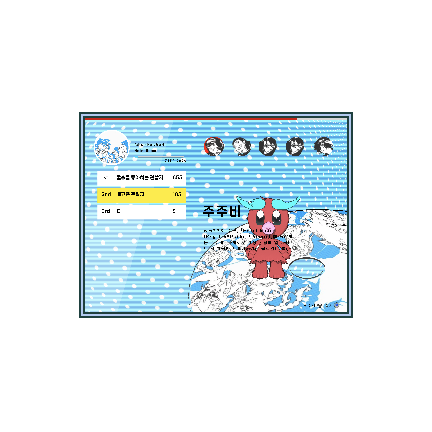
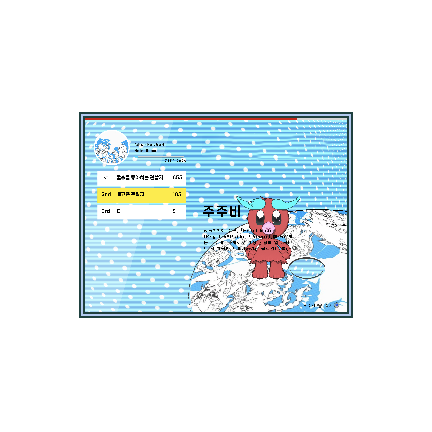
upg1

Changed region(s): [[0.4514, 0.3009, 0.7824, 0.3912]]

diff --git a/index.html b/index.html
@@ -4,13 +4,98 @@
         <meta charset="UTF-8">
         <meta name="apple-mobile-web-app-capable" content="yes">
         <meta name="apple-mobile-web-app-status-bar-style" content="black-translucent">
-        <meta name="viewport" content="user-scalable=no">
+        <meta name="viewport" content="width=device-width, initial-scale=1.0">
         <link rel="icon" href="icon/icon.png" type="image/png">
         <link rel="apple-touch-icon" href="icon/icon.png">
-        <link rel="stylesheet" type="text/css" href="css/game.css">
+        <link rel="stylesheet" type="text/css" href="./css/game.css">
+        <link rel="stylesheet" type="text/css" href="./fonts/gamefont.css">
         <title>Shunji Heights</title>
+        <style>
+
+
+
+/*
+body, html {
+    width: 320px;
+    height: 320px;
+    margin: 0;
+    padding: 0;
+    background-color: #ffffff;
+    overflow: hidden;
+    position: fixed;
+    transform: translate(-50%, -50%);
+    top: 50%;
+    left: 50%;
+} */
+
+body, html {
+    width: 100%;
+    height: 100%;
+    margin: 0;
+    padding: 0;
+    background-image: url('background.png');
+    background-size: 10%;
+    background-repeat: repeat;
+    background-position: center center;
+    overflow: hidden;
+    position: fixed;
+    top: 0;
+    left: 0;
+}
+
+
+            /* 로고 스타일 */
+            .logo {
+                position: fixed;
+                left: 50%;
+                transform: translateX(-50%);
+                opacity: 0.5; /* 불투명도 50% */
+                z-index: 1000; /* 다른 요소 위에 표시 */
+                max-width: 200px; /* 로고의 최대 너비 설정 */
+                height: auto; /* 자동 높이 조절 */
+            }
+
+            .top-logo {
+                top: 20px; /* 화면 상단에서 20px 떨어진 위치 */
+            }
+
+            .bottom-logo {
+                bottom: 20px; /* 화면 하단에서 20px 떨어진 위치 */
+            }
+
+            /* 반응형 디자인을 위한 추가 조정 (선택 사항) */
+            @media (max-width: 768px) {
+                .logo {
+                    max-width: 125px; /* 작은 화면에서 로고 크기 축소 */
+                }
+            }
+
+#gameCanvas {
+    image-rendering: auto !important;
+
+    /* 기본 데스크탑 설정 */
+    /*transform: scale(1.4815);*/
+    /*transform-origin: center;*/  /* 중심을 기준으로 확대 */
+
+    
+        /* /m 모바일 설정 */
+     /* transform: scale(1);*/
+      /*  transform-origin: center;*/  /* 중심을 기준으로 확대 */
+    
+}
+
+
+        </style>
+        
+        
     </head>
     <body style="background-color: black">
+       <!-- 상단 중앙 로고 -->
+       <!--<img src="azxmg.svg" class="logo top-logo">-->
+
+       <!-- 하단 중앙 로고 -->
+       <img src="azxmg.svg" class="logo bottom-logo">
+
         <script type="text/javascript" src="./js/libs/socket.io.js"></script> 
 <div style="width:640px; height:640px">
         <div id="text_zone"></div>
@@ -27,4 +112,6 @@
           }
         });
       </script>
+
 </html>
+

diff --git a/js/rmmz_core.js b/js/rmmz_core.js
@@ -922,10 +922,10 @@ Graphics._centerElement = function(element) {
     element.style.bottom = 0;
     element.style.width = width + "px";
     element.style.height = height + "px";
-    element.style.borderTopStyle = "double";
-    element.style.borderRightStyle = "double";
-    element.style.borderBottomStyle = "double";
-    element.style.borderLeftStyle = "double";
+    element.style.borderTopStyle = "unset";
+    element.style.borderRightStyle = "unset";
+    element.style.borderBottomStyle = "unset";
+    element.style.borderLeftStyle = "unset";
     element.style.borderRadius = "0px";
     
 };
